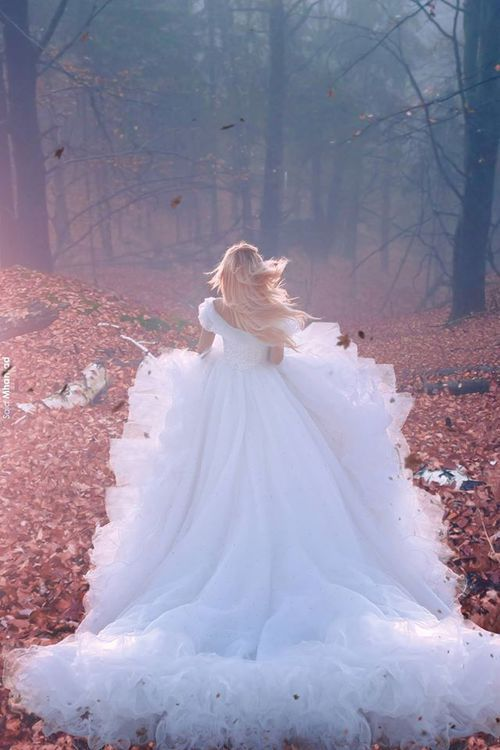
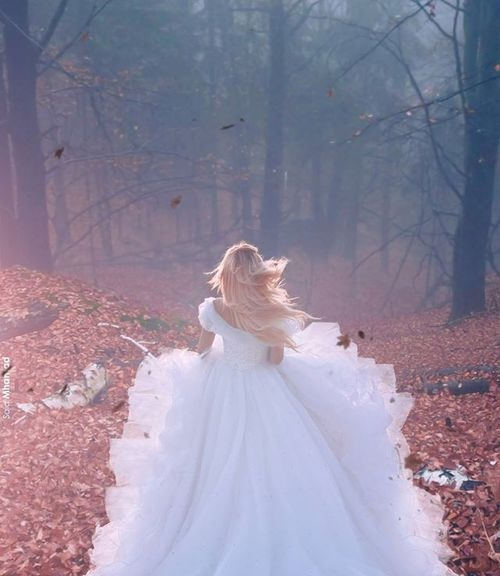
add live link to readme

diff --git a/assets/css/style.css b/assets/css/style.css
@@ -199,7 +199,7 @@ header, section {
 /* ------ Body */
 
 .wallpaper {
-    background: url(../images/wallpaper.jpg);
+    background: url(../images/wallpaper_2.jpg);
     background-position: left;
     background-repeat: no-repeat;
     background-size: cover;

diff --git a/readme.md b/readme.md
@@ -1,0 +1,3 @@
+Live link:
+ https://midnattlantern.github.io/ali_resume/
+ 
